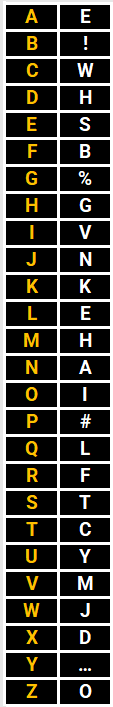
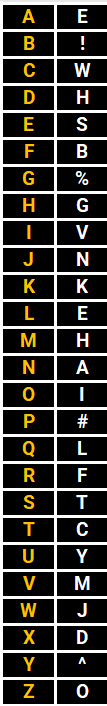
first commit

diff --git a/index.html b/index.html
@@ -57,7 +57,7 @@
               
               function check(form)
                 {
-                  if(form.passphrase.value == "THISISTHEWAY..." || form.passphrase.value == "Thisistheway..." || form.passphrase.value == "thisistheway...")
+                  if(form.passphrase.value == "THISISTHEWAY^" || form.passphrase.value == "Thisistheway^" || form.passphrase.value == "thisistheway^")
                     {
                       window.open('./message.html')
                     }
